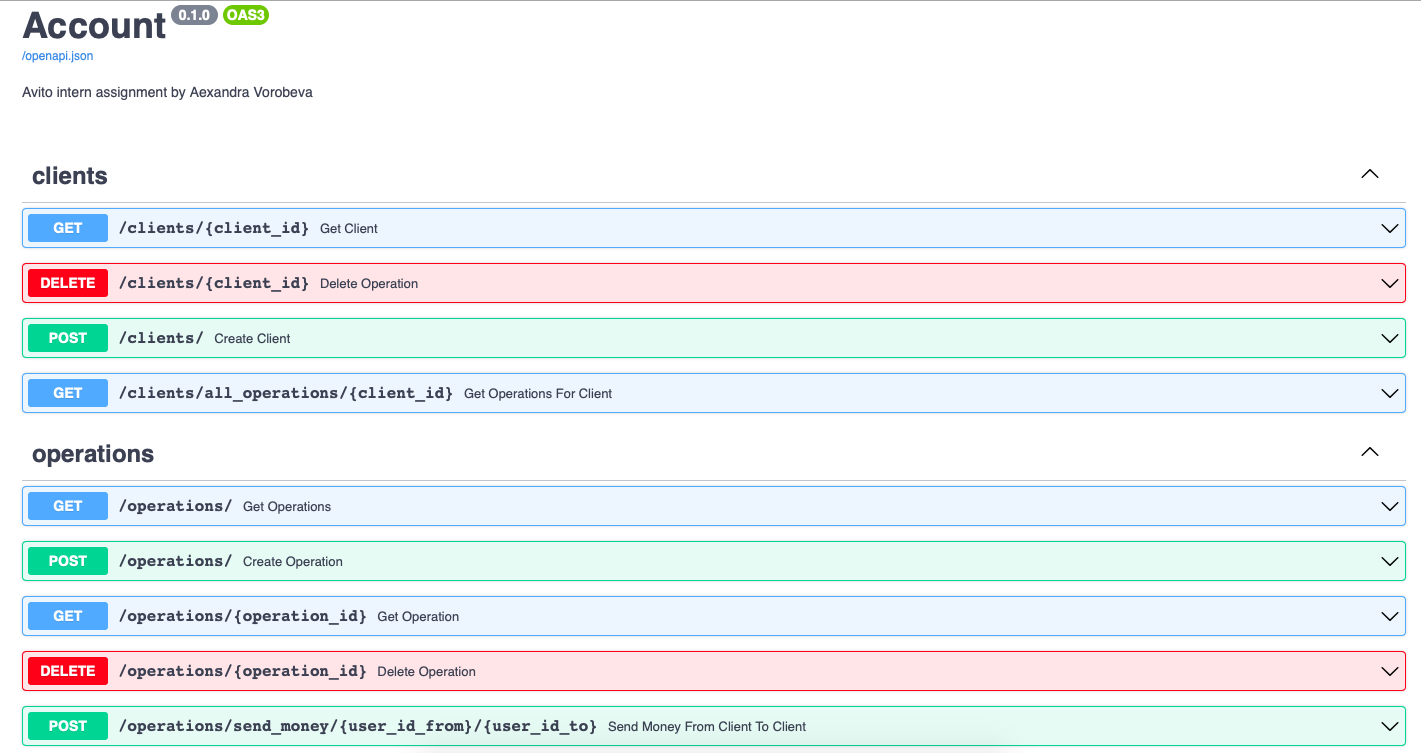
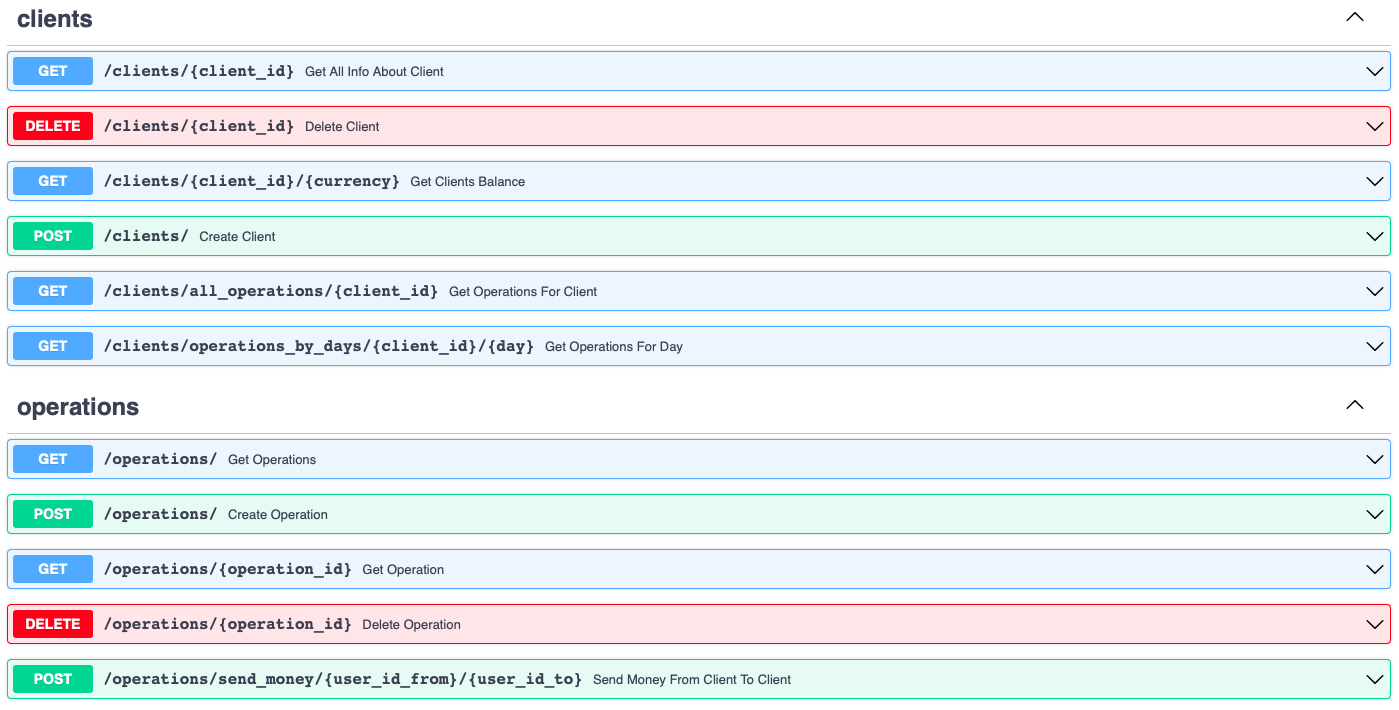
11

Changed region(s): [[0.0, 0.0, 1.0, 0.9915], [0.9528, 0.0, 0.9836, 0.031]]

diff --git a/avito_test/app/routs/clients.py b/avito_test/app/routs/clients.py
@@ -1,10 +1,9 @@
 from typing import Optional, List
 from fastapi import APIRouter, Depends, Response, status
-from sqlalchemy.orm import Session
 from ..schemas.clients import ClientCreate
 from ..schemas.clients import Client as model_Client
-from ..database import get_session
-from ..models import Client
+from ..schemas.currency import CurrencyKind
+from ..schemas.operation import Operation as model_Operation
 from ..services.clients import ClientService
 
 
@@ -12,12 +11,22 @@ router = APIRouter(prefix='/clients', tags=['clients'],)
 
 
 @router.get('/{client_id}', response_model=model_Client)
-def get_client(
+def get_all_info_about_client(
         client_id: int,
         services: ClientService = Depends()
 ):
     """GET information about a client by id."""
     return services.get(client_id)
+
+
+@router.get('/{client_id}/{currency}', response_model=model_Client)
+def get_clients_balance(
+        client_id: int,
+        currency: CurrencyKind,
+        services: ClientService = Depends()
+):
+    """GET client's balance in different currencies."""
+    return services.get_clients_balance_currency(client_id, currency)
 
 
 @router.post('/', response_model=model_Client)
@@ -30,7 +39,7 @@ def create_client(
 
 
 @router.delete('/{client_id}', status_code=status.HTTP_204_NO_CONTENT)
-def delete_operation(
+def delete_client(
     client_id: int,
     service: ClientService = Depends(),
 ):
@@ -39,10 +48,20 @@ def delete_operation(
     return Response(status_code=status.HTTP_204_NO_CONTENT)
 
 
-@router.get('/all_operations/{client_id}', response_model=List[model_Client])
+@router.get('/all_operations/{client_id}', response_model=List[model_Operation])
 def get_operations_for_client(
         client_id: int,
         services: ClientService = Depends()
 ):
     """GET information about all operations for one user by user id."""
     return services.get_operations_for_user(client_id)
+
+
+@router.get('/operations_by_days/{client_id}/{day}', response_model=List[model_Operation])
+def get_operations_for_day(
+        client_id: int,
+        day,
+        services: ClientService = Depends()
+):
+    """GET information about all operations for one user per day."""
+    return services.get_operations_sort_by_days(client_id, day)

diff --git a/avito_test/app/services/clients.py b/avito_test/app/services/clients.py
@@ -1,9 +1,9 @@
-from typing import Optional
-from fastapi import APIRouter, Depends, HTTPException, status
+from fastapi import Depends, HTTPException, status
 from sqlalchemy.orm import Session
 from ..database import get_session
 from ..models import Client, Operation
 from ..schemas.clients import ClientCreate
+from ..services.currency import USD, EUR, CNY
 
 
 class ClientService:
@@ -44,3 +44,20 @@ class ClientService:
         operations = query.all()
         return operations
 
+    def get_operations_sort_by_days(self, client_id, day):
+        """Get information about all operations for one user per day."""
+        query = self.session.query(Operation)
+        operations = query.filter(Operation.user_id == client_id,
+                                  Operation.date == day).all()
+        return operations
+
+    def get_clients_balance_currency(self, client_id, currency):
+        """Get client's balance from database and convert it from RUB to USD, EUR or CNY"""
+        client = self.get(client_id)
+        if currency == 'USD':
+            client.balance = round(client.balance / USD, 2)
+        if currency == 'EUR':
+            client.balance = round(client.balance / EUR, 2)
+        if currency == 'CNY':
+            client.balance = round(client.balance / CNY, 2)
+        return client

diff --git a/avito_test/app/services/currency.py b/avito_test/app/services/currency.py
@@ -1,0 +1,17 @@
+import requests
+import lxml
+from bs4 import BeautifulSoup
+
+
+def get_currency(currency_id):
+    """Fetch exchange rate for ruble."""
+    page = requests.get('http://www.cbr.ru/scripts/XML_daily.asp')
+    src = page.text
+    soup = BeautifulSoup(src, "lxml")
+    exchange_rate = soup.find(id=currency_id).find_next("value").get_text()
+    return round(float(exchange_rate.replace(",", ".")), 2)
+
+
+USD = get_currency("R01235")
+EUR = get_currency("R01239")
+CNY = get_currency("R01375")

diff --git a/avito_test/tests/test_main.py b/avito_test/tests/test_main.py
@@ -1,0 +1,10 @@
+from fastapi.testclient import TestClient
+from avito_test.app.main import app
+
+client = TestClient(app)
+
+
+def test_read_main():
+    response = client.get("http://localhost:8005/operations/?kind=income")
+
+    assert response.status_code == 200

diff --git a/avito_test/app/schemas/currency.py b/avito_test/app/schemas/currency.py
@@ -1,0 +1,9 @@
+from enum import Enum
+from pydantic import BaseModel
+
+
+class CurrencyKind(str, Enum):
+    RUB = "RUB"
+    USD = "USD"
+    EUR = "EUR"
+    CNY = "CNY"
